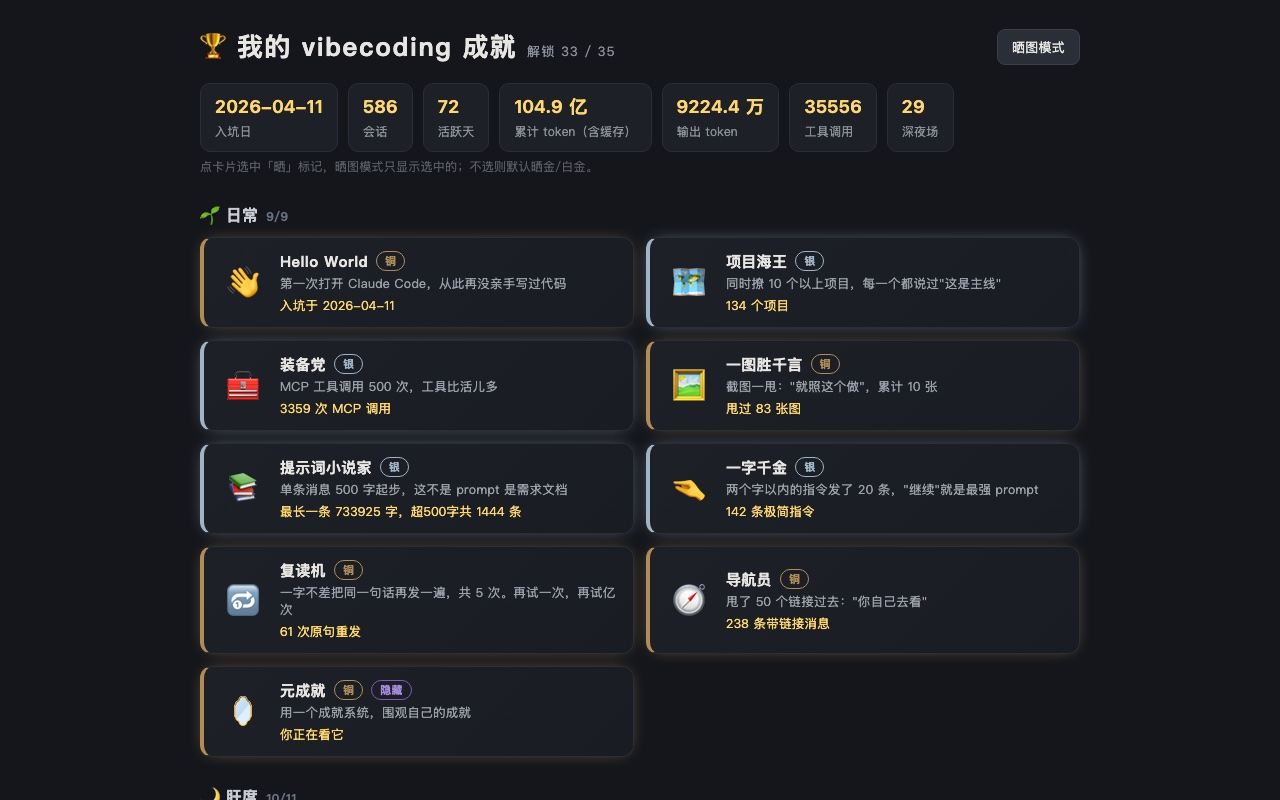
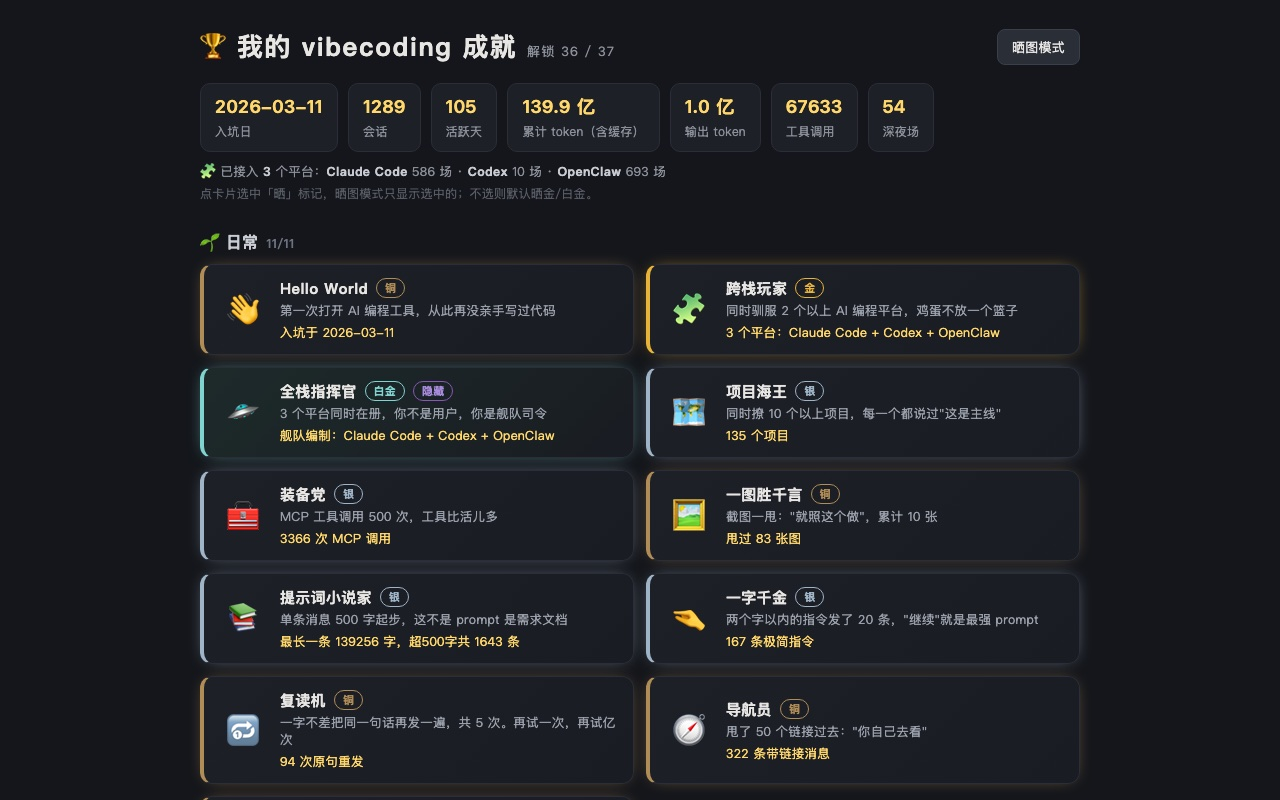
成就墙卡片升级多平台文案 + v0.4 配图

diff --git a/en/index.html b/en/index.html
@@ -199,7 +199,7 @@
     <div class="txt">
       <h2><span class="pic" data-icon="trophy"></span>Vibe Trophy</h2>
       <div class="en">vibecoding 成就墙</div>
-      <p>Steam has achievements; vibe coding deserves them too. It reads your local Claude Code logs and computes 35 achievements: 3 AM Club, Token Furnace, Left-on-Read. The page shows my own records, straight from the logs, nothing made up.</p>
+      <p>Steam has achievements; vibe coding deserves them too. It reads your local Claude Code, Codex and OpenClaw logs and computes 37 achievements: 3 AM Club, Token Furnace, Left-on-Read. The page shows my own records, straight from the logs, nothing made up.</p>
       <a class="open" href="https://maxi-max-dev.github.io/vibe-trophy/" target="_blank" rel="noopener">See my wall <span class="ar">↗</span></a>
     </div>
     <div class="vis">

diff --git a/index.html b/index.html
@@ -199,7 +199,7 @@
     <div class="txt">
       <h2><span class="pic" data-icon="trophy"></span>vibecoding 成就墙</h2>
       <div class="en">vibe-trophy</div>
-      <p>Steam 有成就系统，vibe coding 也该有一个。读本地 Claude Code 日志，算出 35 个成就：凌晨三点俱乐部、烧 token 大户、已读不回。页面上挂的是我自己的真实档案，一条没编。</p>
+      <p>Steam 有成就系统，vibe coding 也该有一个。读本地 Claude Code、Codex、OpenClaw 日志，算出 37 个成就：凌晨三点俱乐部、烧 token 大户、已读不回。页面上挂的是我自己的真实档案，一条没编。</p>
       <a class="open" href="https://maxi-max-dev.github.io/vibe-trophy/" target="_blank" rel="noopener">看我的成就墙 <span class="ar">↗</span></a>
     </div>
     <div class="vis">